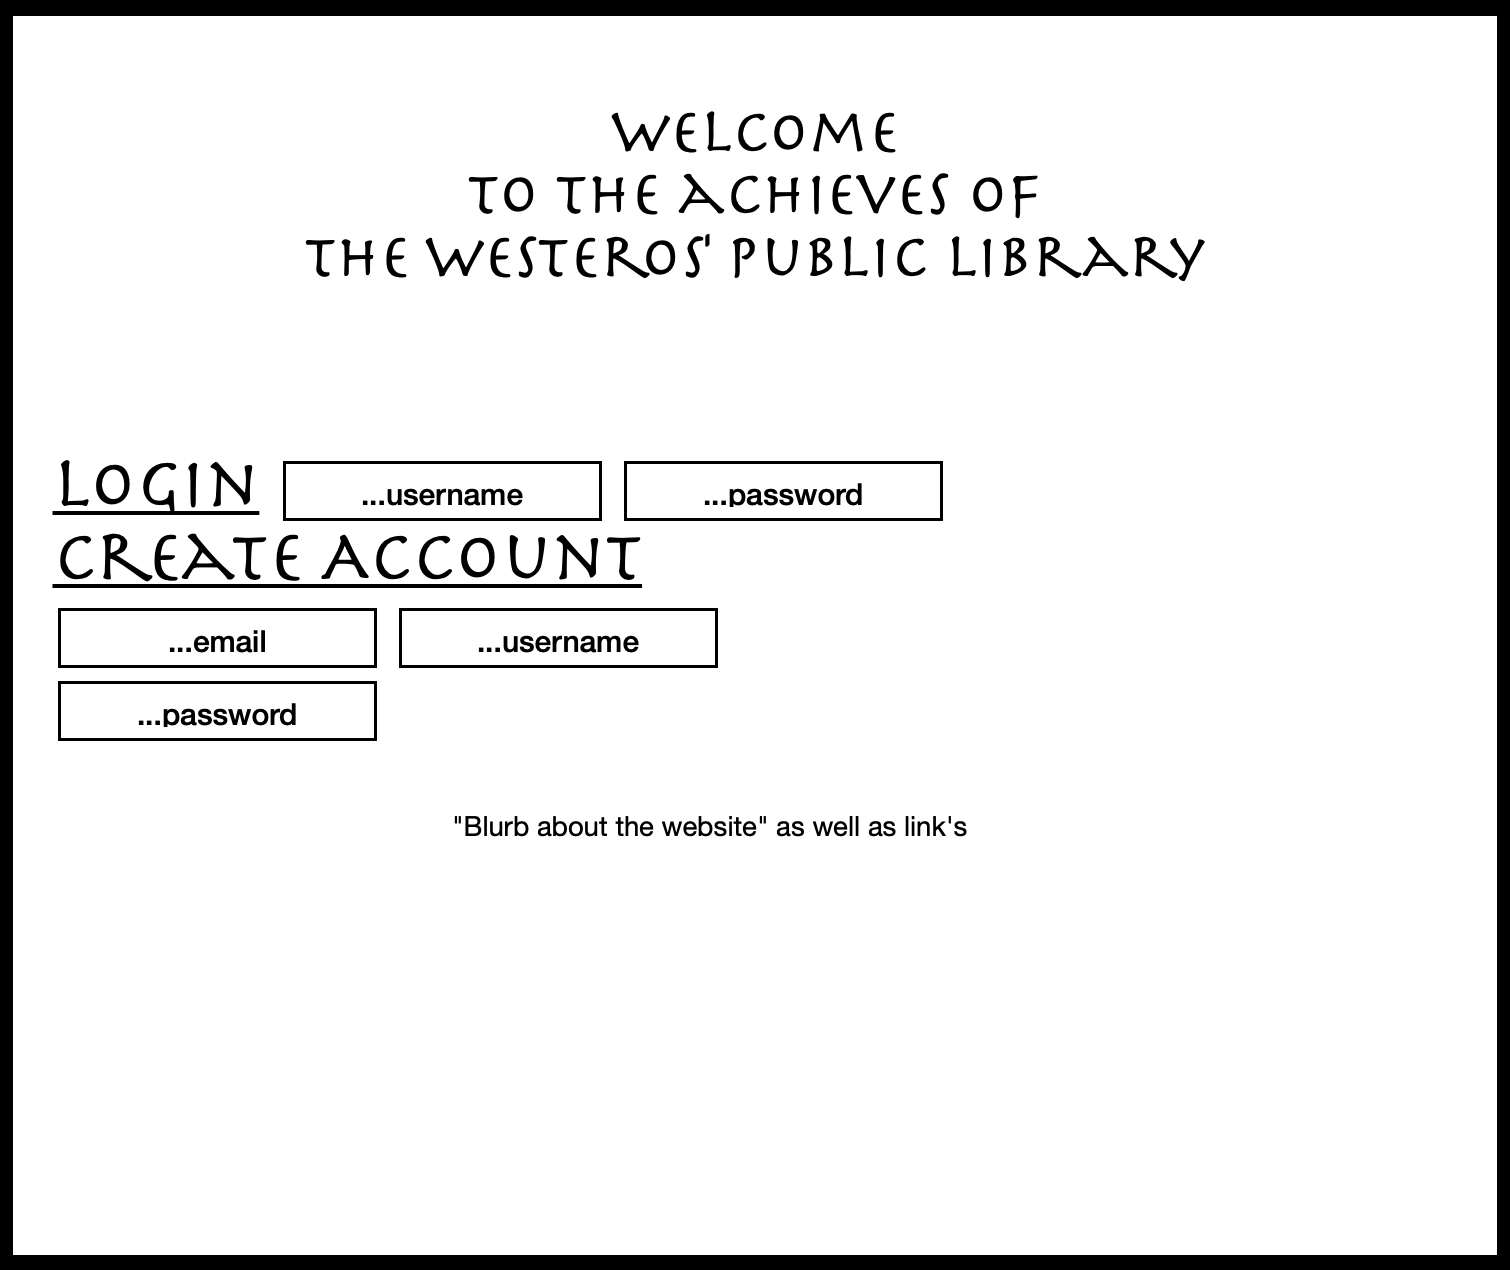
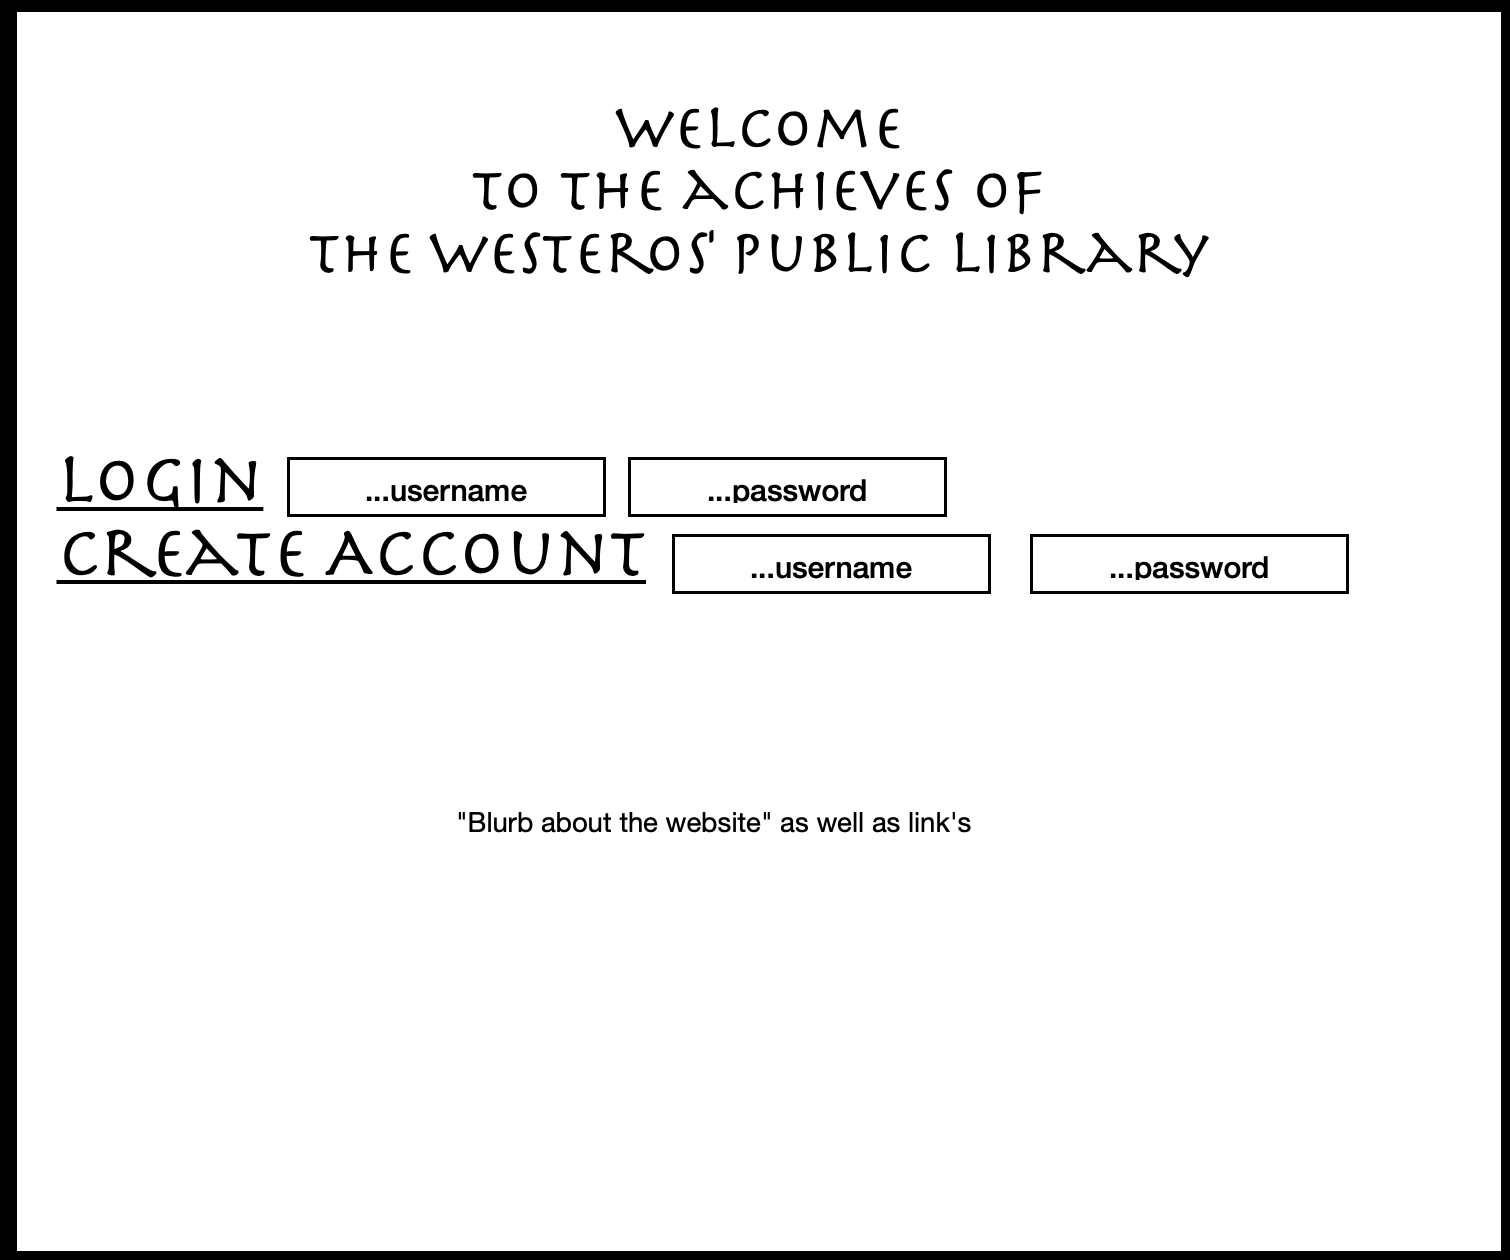
removed dotenv, port and browser are listening

diff --git a/server.js b/server.js
@@ -1,5 +1,4 @@
 //Required Modules and Variables//
-require("dotenv").config();
 const express = require("express");
 const ejsLayouts = require("express-ejs-layouts");
 const rowdy = require("rowdy-logger");
@@ -11,7 +10,7 @@ const db = require("./models");
 //Variables//
 const app = express();
 const rowdyResults = rowdy.begin(app);
-const PORT = process.env.PORT || 3000;
+const PORT = 3000;
 
 //Middleware and config//
 app.set("view engine", "ejs");
@@ -21,10 +20,27 @@ app.use(express.static("public"));
 app.use(express.urlencoded({ extended: false }));
 app.use(require("cookie-parser")());
 
-//Routes//
+//Routes //
 app.get("/", (req, res) => {
   res.send("🌞 Hello World!🌞 ");
 });
+
+/* Routes */
+
+//GET API INFO//
+// app.get("/", async (req, res) => {
+//   try {
+//     const GotUrl = "https://www.anapioficeandfire.com/api/characters/823";
+//     const response = await axios.get(GotUrl);
+//     const characters = response.data.results;
+
+//     res.render("index", { characters: characters });
+//   } catch (err) {
+//     console.log("🍎 🍎 🍎", err);
+//     res.render("index", { characters: [] });
+//   }
+// });
+
 app.listen(PORT, () => {
   console.log(`Server is listening to port🚢 : ${PORT}`);
 });

diff --git a/README.md b/README.md
@@ -14,7 +14,7 @@ This website should read as an interactive & social media platform. Users can pe
 
 ⚔ Let user's create a profile, & login/logout.
 
-⚔ Save user's content: username, hashed password, email & additional info from site use.
+⚔ Save user's content: username, hashed password & additional info from site use.
 
 ⚔ Make characters searchable, display info about them.
 
@@ -49,7 +49,7 @@ This website should read as an interactive & social media platform. Users can pe
 1. The first page you see, as a user, is the login page.
 2. At this page you choose to either...
 
-   A. create a user account, enter in a username, email & password.
+   A. create a user account, enter in a username & password.
 
    B. login to an already existing account.
 
